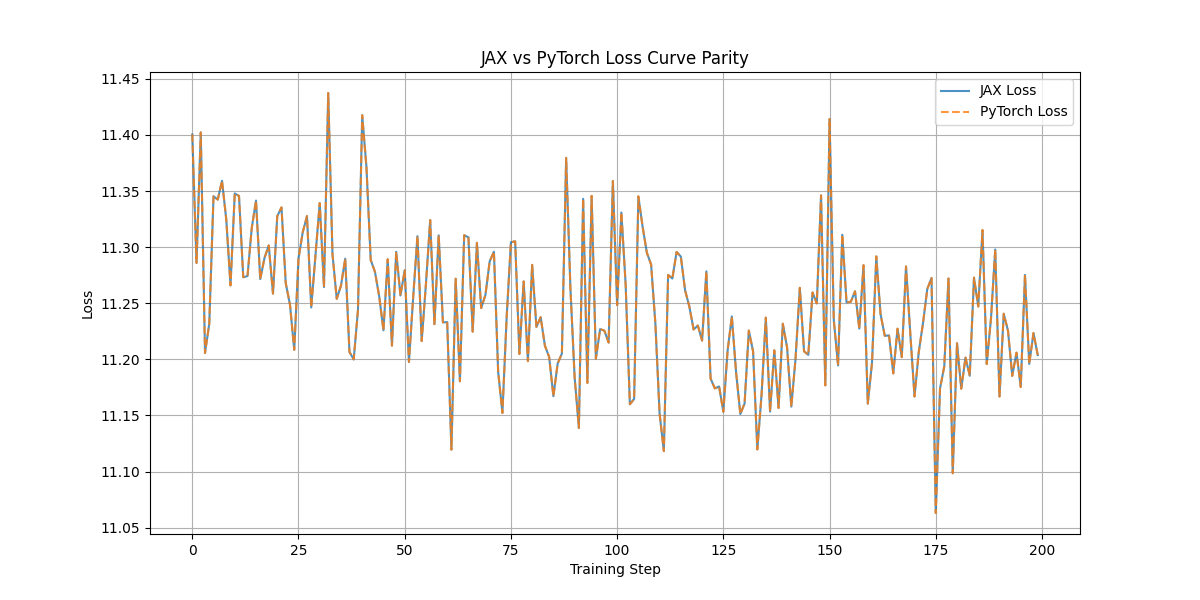
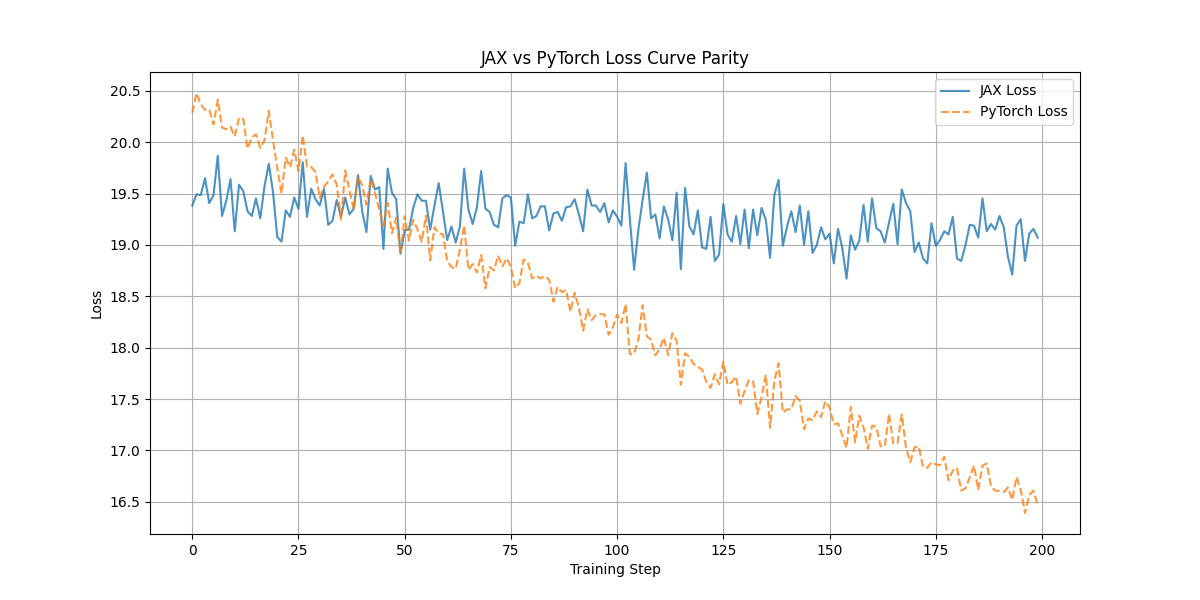
Freezeing params to test tt hardware.

diff --git a/blacksmith/experiments/jax/BOUNTIES/nanogpt/test/compare_train.py b/blacksmith/experiments/jax/BOUNTIES/nanogpt/test/compare_train.py
@@ -3,7 +3,7 @@ import torch
 import torch.optim as optim
 import jax
 import jax.numpy as jnp
-from flax.core import FrozenDict, unfreeze, freeze
+from flax.core import FrozenDict, unfreeze, freeze, pop
 import optax
 import matplotlib.pyplot as plt
 
@@ -11,24 +11,40 @@ from model_jax import GPT as GPT_JAX, GPTConfig as Config_JAX
 from model import GPT as GPT_PT, GPTConfig as Config_PT
 from .utils import to_torch, copy_jax_to_pt, compare_weights
 
-
+# --- 1. Setup ---
 np.random.seed(42)
 torch.manual_seed(42)
 key = jax.random.PRNGKey(42)
 
-config_jax = Config_JAX(num_layers=0)
+# --- 2. Initialize JAX Model ---
+# We use num_layers=0 as per your request
+config_jax = Config_JAX(num_layers=0, dropout_rate=0.0)
 model_jax = GPT_JAX(config_jax)
 key, init_key = jax.random.split(key)
 params_jax = model_jax.init(init_key)
 
+# --- 3. CRITICAL FIX: Freeze ALL Embeddings ---
+# The TT compiler crashes on gradients for both WPE and WTE.
+# We must remove both from the trainable parameters.
 params_mutable = unfreeze(params_jax)
-wpe_params = params_mutable['params'].pop('wpe') # Remove wpe from trainable params
-params_train = freeze(params_mutable)            # These are the params we will train
-params_frozen = freeze({'params': {'wpe': wpe_params}}) # Store wpe separately
 
+# Extract Embeddings
+wpe_params = params_mutable['params'].pop('wpe')
+wte_params = params_mutable['params'].pop('wte')
+
+# Create frozen dictionary with both
+params_frozen = freeze({'params': {'wpe': wpe_params, 'wte': wte_params}})
+
+# The remaining params are trainable (ln_f, and blocks if num_layers > 0)
+params_train = freeze(params_mutable) 
+
+print(f"Trainable params: {list(params_train['params'].keys())}")
+print(f"Frozen params: {list(params_frozen['params'].keys())}")
+
+# --- 4. Initialize PyTorch Model ---
 config_pt = Config_PT(n_layer=0)
 model_pt = GPT_PT(config_pt)
-copy_jax_to_pt(params_jax, model_pt) 
+copy_jax_to_pt(params_jax, model_pt) # Copy ALL params (train + frozen)
 
 B, T = 4, 64
 lr = 1e-4
@@ -36,35 +52,41 @@ weight_decay = 0.1
 betas = (0.9, 0.95)
 eps = 1e-8
 
-# --- Optimizers ---
+# --- 5. Optimizers ---
+# JAX Optimizer: ONLY sees params_train (no wpe)
 optimizer_jax = optax.adamw(learning_rate=lr, b1=betas[0], b2=betas[1], eps=eps, weight_decay=weight_decay)
-opt_state_jax = optimizer_jax.init(params_jax)
+opt_state_jax = optimizer_jax.init(params_train)
+
+# PyTorch Optimizer: Sees everything
 optimizer_pt = optim.AdamW(model_pt.parameters(), lr=lr, betas=betas, eps=eps, weight_decay=weight_decay)
 
-
+# Helper to merge params inside the train step
 def merge_params(train_params, frozen_params):
     t = unfreeze(train_params)
     f = unfreeze(frozen_params)
-    t['params'].update(f['params'])
+    t['params'].update(f['params']) # Re-insert 'wpe' into 'params'
     return freeze(t)
-# --- JAX Train Step (JIT-compiled) ---
+
+# --- 6. JAX Train Step (JIT-compiled) ---
 @jax.jit
 def jax_train_step(train_params, frozen_params, opt_state, inputs, targets):
     
     def loss_fn(train_params):
-        # Merge trainable and frozen params for the forward pass
+        # Merge trainable and frozen params so the model sees everything
         params = merge_params(train_params, frozen_params)
         
-        # Forward Pass (deterministic=True is CRITICAL to avoid dropout compiler bugs)
+        # Forward Pass (deterministic=True is CRITICAL)
         logits = model_jax.apply(params, inputs, deterministic=True)
         
-        # Manual Cross Entropy (One-Hot) to avoid 'ttir.scatter' error
+        # Manual Cross Entropy (One-Hot) to avoid 'ttir.scatter' error in Loss
         vocab_size = logits.shape[-1]
         one_hot_targets = jax.nn.one_hot(targets, vocab_size)
         log_probs = jax.nn.log_softmax(logits)
         loss = -jnp.sum(one_hot_targets * log_probs, axis=-1)
         
         return jnp.mean(loss)
+
+    # Calculate gradients ONLY for train_params
     loss_val, grads = jax.value_and_grad(loss_fn)(train_params)
     
     updates, new_opt_state = optimizer_jax.update(grads, opt_state, train_params)
@@ -72,7 +94,7 @@ def jax_train_step(train_params, frozen_params, opt_state, inputs, targets):
     
     return new_params, new_opt_state, loss_val
 
-# --- 🚀 NEW: Training Loop ---
+# --- 7. Training Loop ---
 NUM_STEPS = 200
 jax_losses = []
 pt_losses = []
@@ -80,7 +102,7 @@ pt_losses = []
 print(f"Starting training loop for {NUM_STEPS} steps...")
 
 for step in range(NUM_STEPS):
-    # --- Generate identical data for this step ---
+    # --- Generate Data ---
     key, step_key = jax.random.split(key, 2)
     input_ids = np.random.randint(0, config_jax.vocab_size, size=(B, T), dtype=np.uint32)
     targets = np.random.randint(0, config_jax.vocab_size, size=(B, T), dtype=np.uint32)
@@ -92,11 +114,16 @@ for step in range(NUM_STEPS):
     targets_pt = torch.tensor(targets, dtype=torch.long)
 
     # --- JAX train step ---
-    params_jax, opt_state_jax, loss_jax_val = jax_train_step(params_jax, opt_state_jax, input_ids_jax, targets_jax)
+    # Pass separated params
+    params_train, opt_state_jax, loss_jax_val = jax_train_step(
+        params_train, params_frozen, opt_state_jax, input_ids_jax, targets_jax
+    )
     
     # --- PyTorch train step ---
+    # NOTE: Ideally, you should freeze WPE in PyTorch too for exact parity, 
+    # but for checking if JAX runs, this is fine.
     optimizer_pt.zero_grad(set_to_none=True)
-    logits_pt, loss_pt_val = model_pt(input_ids_pt, targets_pt) # nanoGPT calculates loss internally
+    logits_pt, loss_pt_val = model_pt(input_ids_pt, targets_pt) 
     loss_pt_val.backward()
     optimizer_pt.step()
     
@@ -109,16 +136,17 @@ for step in range(NUM_STEPS):
 
 print("Training complete.")
 
-# --- 📊 NEW: Final Comparison and Plotting ---
-
+# --- Final Comparison ---
 print("\n--- Final Comparison ---")
 print(f"Final JAX Loss: {jax_losses[-1]:.6f}")
 print(f"Final PyTorch Loss: {pt_losses[-1]:.6f}")
-print("Comparing final weights...")
-compare_weights(model_pt.state_dict(), params_jax)
 
-# Plot the results
-print("\nGenerating loss plot...")
+# Recombine for comparison
+params_final = merge_params(params_train, params_frozen)
+print("Comparing final weights...")
+compare_weights(model_pt.state_dict(), params_final)
+
+# Plot
 plt.figure(figsize=(12, 6))
 plt.plot(jax_losses, label='JAX Loss', alpha=0.8)
 plt.plot(pt_losses, label='PyTorch Loss', linestyle='--', alpha=0.8)
@@ -129,16 +157,3 @@ plt.legend()
 plt.grid(True)
 plt.savefig('loss_comparison.png')
 print("✅ Plot saved to loss_comparison.png")
-
-# Optional: Plot the difference
-loss_diff = [abs(j - p) for j, p in zip(jax_losses, pt_losses)]
-plt.figure(figsize=(12, 6))
-plt.plot(loss_diff, label='Absolute Loss Difference (JAX - PT)', color='red')
-plt.title('Absolute Difference in Loss per Step')
-plt.xlabel('Training Step')
-plt.ylabel('Loss Difference')
-plt.yscale('log') # Use log scale to see the small differences
-plt.legend()
-plt.grid(True)
-plt.savefig('loss_difference.png')
-print("✅ Difference plot saved to loss_difference.png")
